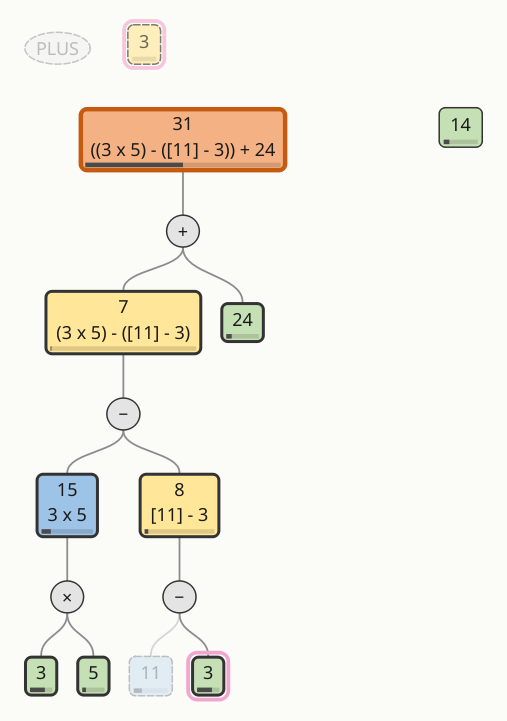
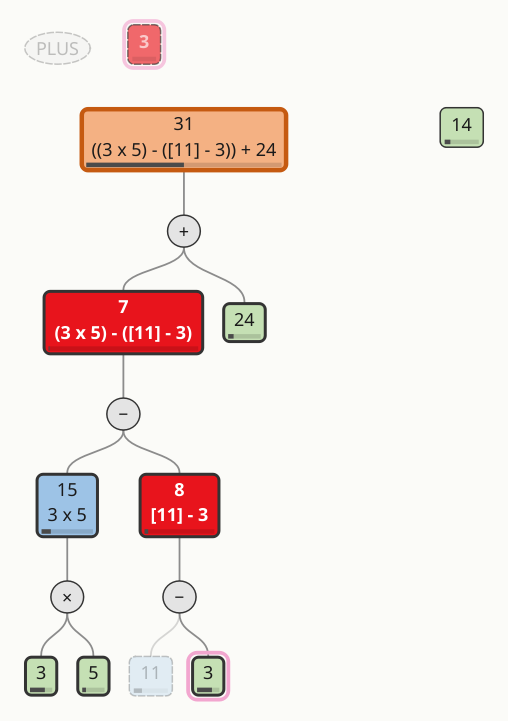
Numbo: a README in every folder; derived targets in bright red
- READMEs for docs/, lisp/tests/, lisp/tests/oracle/ (and lib/),
  python/docs/, fixtures/, scripts/, numbo/, numbo/models/, numbo/gui/,
  tests/ and tests/gui/, each saying what the folder holds and how to use it.
- python/README.md: the two screenshots in a Screenshots section up front.
- GUI: derived targets (what Numbo still needs to build) are drawn bright
  red with bold white labels; screenshots regenerated.

All 17 test groups pass (4,915 Python tests).

diff --git a/Software/Numbo/python/numbo/gui/tree_view.py b/Software/Numbo/python/numbo/gui/tree_view.py
@@ -57,7 +57,7 @@ MAX_FIT_SCALE = 1.5
 ZOOM_STEP = 1.25
 MARGIN = 16                # around the layout, in scene units
 
-TYPE_COLORS = {"1t": "#f4b183", "3dt": "#ffe699", "4bl": "#9dc3e6", "2b": "#c5e0b4",
+TYPE_COLORS = {"1t": "#f4b183", "3dt": "#e8141c", "4bl": "#9dc3e6", "2b": "#c5e0b4",
                OP_TYPE: "#e4e4e4"}
 TYPE_NAMES = {"1t": "target", "3dt": "derived target", "4bl": "block", "2b": "brick",
               OP_TYPE: "operation"}
@@ -65,6 +65,10 @@ OTHER_COLOR = "#ffffff"
 BORDER = "#333333"
 CURRENT_BORDER = "#c55a11"
 TEXT = "#1a1a1a"
+# Derived targets (what Numbo still needs to build) stand out: bright red,
+# with bold white text.
+BOLD_TYPES = {"3dt"}
+TYPE_TEXT = {"3dt": "#ffffff"}
 BAR = "#4a4a4a"
 BAR_TRACK = "#22000000"    # #AARRGGBB: a faint track under the bar
 EDGE = "#8c8c8c"
@@ -79,10 +83,11 @@ HALO = 4                   # room outside the box for the halo
 
 
 class Label(NamedTuple):
-    """A node's text, and whether it is an operation's (drawn round, with
-    no activation bar)."""
+    """A node's text, whether it is an operation's (drawn round, with no
+    activation bar), and whether it is drawn bold (which makes it wider)."""
     text: str
     op: bool
+    bold: bool = False
 
 
 def view_label(node):
@@ -94,7 +99,7 @@ def view_label(node):
     text = node_label(node)
     if node.children and node.expression:
         text += "\n" + node.expression
-    return Label(text, False)
+    return Label(text, False, node.type in BOLD_TYPES)
 
 
 @dataclasses.dataclass(frozen=True)
@@ -108,6 +113,8 @@ class Style:
     opacity: float
     bar: object
     highlight: object = None
+    text: str = TEXT
+    bold: bool = False
 
 
 def node_style(node, ghost_age, highlight):
@@ -130,16 +137,18 @@ def node_style(node, ghost_age, highlight):
         bar = 0 if not isinstance(a, (int, float)) else min(1, max(0, a / MAX_ACTIVATION))
     return Style(fill=TYPE_COLORS.get(node.type, OTHER_COLOR), border=border,
                  border_width=width, dashed=dashed, opacity=opacity, bar=bar,
-                 highlight=highlight)
+                 highlight=highlight, text=TYPE_TEXT.get(node.type, TEXT),
+                 bold=node.type in BOLD_TYPES)
 
 
 class NodeItem(QGraphicsItem):
     """A node's box at its layout position: RECT is (0, 0, width, height)."""
 
-    def __init__(self, name, font):
+    def __init__(self, name, font, bold_font=None):
         super().__init__()
         self.name = name
         self.font = font
+        self.bold_font = bold_font or font
         self.node = None
         self.label = None
         self.style = None
@@ -202,8 +211,8 @@ class NodeItem(QGraphicsItem):
                 painter.setBrush(QColor(BAR))
                 painter.drawRect(QRectF(track.x(), track.y(), track.width() * s.bar,
                                         BAR_HEIGHT))
-        painter.setFont(self.font)
-        painter.setPen(QColor(TEXT))
+        painter.setFont(self.bold_font if s.bold else self.font)
+        painter.setPen(QColor(s.text))
         painter.drawText(text_rect, Qt.AlignmentFlag.AlignCenter, self.label)
 
 
@@ -249,6 +258,9 @@ class TreeView(QGraphicsView):
         self.node_font = QFont(self.font())
         self.node_font.setPointSizeF(9)
         self._metrics = QFontMetricsF(self.node_font)
+        self.bold_font = QFont(self.node_font)
+        self.bold_font.setBold(True)
+        self._bold_metrics = QFontMetricsF(self.bold_font)
         self.model = TreeModel()
         self.layouter = self.make_layouter()
         self.layout = None
@@ -265,8 +277,9 @@ class TreeView(QGraphicsView):
 
     def measure(self, label):
         lines = label.text.split("\n")
-        w = max(self._metrics.horizontalAdvance(line) for line in lines) + 2 * PAD_X
-        h = self._metrics.height() * len(lines) + 2 * PAD_Y
+        metrics = self._bold_metrics if label.bold else self._metrics
+        w = max(metrics.horizontalAdvance(line) for line in lines) + 2 * PAD_X
+        h = metrics.height() * len(lines) + 2 * PAD_Y
         if label.op:
             return (max(w, h), h)
         return (w, h + BAR_HEIGHT + 2)
@@ -346,7 +359,7 @@ class TreeView(QGraphicsView):
             node = nodes[name]
             item = self.node_items.get(name)
             if item is None:
-                item = self.node_items[name] = NodeItem(name, self.node_font)
+                item = self.node_items[name] = NodeItem(name, self.node_font, self.bold_font)
                 scene.addItem(item)
             highlight = self.highlight(name)
             if highlight:

diff --git a/Software/Numbo/python/tests/test_readme.py b/Software/Numbo/python/tests/test_readme.py
@@ -109,8 +109,8 @@ def test_the_gui_section_runs_the_smoke_command_and_the_cli():
 
 
 def test_the_screenshots_are_committed_small_pngs():
-    images = re.findall(r"!\[[^\]]+\]\(([^)]+)\)", section("The GUI"))
-    assert 1 <= len(images) <= 2, images
+    images = re.findall(r"!\[[^\]]+\]\(([^)]+)\)", section("Screenshots"))
+    assert len(images) == 2, images
     for image in images:
         path = (PYTHON_DIR / image).resolve()
         assert path.parent == PYTHON_DIR / "docs", image

diff --git a/Software/Numbo/python/tests/test_fixtures_current.py b/Software/Numbo/python/tests/test_fixtures_current.py
@@ -7,7 +7,8 @@ from conftest import FIXTURES_DIR, regenerate_fixtures, requires_sbcl
 
 
 def _files(d):
-    return sorted(p.name for p in d.iterdir() if p.is_file())
+    # python/fixtures/README.md documents the fixtures; it is not one of them.
+    return sorted(p.name for p in d.iterdir() if p.is_file() and p.name != "README.md")
 
 
 @requires_sbcl

diff --git a/Software/Numbo/python/README.md b/Software/Numbo/python/README.md
@@ -16,6 +16,22 @@ Lisp function, with the same names (`look-for-new-block` is
 Each place that reproduces a 1987 quirk has a `# 1987:` comment citing
 `lisp/src/PORTING_NOTES.md`.
 
+## Screenshots
+
+The GUI (`python3 -m numbo.gui`) after puzzle 1 with seed 1 is solved,
+114 = (6 × 20) − (7 − 1). The center shows the tree canvas. Controls and stats
+are on the left, the coderack on the right, and the Pnet, event log and
+timeline along the bottom:
+
+![The window after puzzle 1 with seed 1](docs/gui-window.png)
+
+The canvas at the end of puzzle 3 with seed 8, the `kill-block` gap run. Its
+"Done :" goes through the block 11, which was killed earlier (dashed, faded,
+under `8 = [11] - 3`), so the window's banner and the check say the solution
+is invalid:
+
+![The canvas at the end of puzzle 3 with seed 8](docs/gui-gap-run.png)
+
 ## Requirements
 
 - **Python 3.12** (`python3`). The engine and the CLI use only the standard
@@ -136,9 +152,8 @@ stream. `observers` get the run's typed events (see
 
 `python3 -m numbo.gui` (or `numbo-gui` once installed) opens a window where
 you pick a puzzle and a seed, press Play, and watch the cytoplasm's
-arithmetic trees being built, killed and rebuilt, one event at a time:
-
-![The window after puzzle 1 with seed 1](docs/gui-window.png)
+arithmetic trees being built, killed and rebuilt, one event at a time
+(see [Screenshots](#screenshots)):
 
 - **The canvas** (center) draws the cytoplasm as trees: the target with
   its derived targets, the blocks, and the free bricks. Each node shows its
@@ -170,13 +185,6 @@ a second for the whole window). Keys (the Run menu): Space play/pause,
 → step, Shift+→ step an iteration, Esc stop, ← one event back. The window's
 size, docks, inputs and speed are remembered between sessions (QSettings
 `numbo`/`numbo-gui`).
-
-The canvas at the end of puzzle 3 with seed 8, the `kill-block` gap run. Its
-"Done :" goes through the block 11, which was killed earlier (dashed, faded,
-under `8 = [11] - 3`), so the window's banner and the check say the solution
-is invalid:
-
-![The canvas at the end of puzzle 3 with seed 8](docs/gui-gap-run.png)
 
 Options: `--puzzle N` (1–11) or `--custom "T B B B B B"`, `--seed S`,
 `--max-iterations N`, `--play` to start at once. `--smoke` runs the puzzle

diff --git a/Software/Numbo/python/numbo/README.md b/Software/Numbo/python/numbo/README.md
@@ -1,0 +1,34 @@
+# python/numbo
+
+The Python package. The engine follows the 1987 Lisp file by file and
+function by function, with the same names. Each docstring names its Lisp
+origin, and each reproduced 1987 quirk has a `# 1987:` comment.
+
+**Engine** (translations of `lisp/src/`; standard library only):
+
+| Module | Lisp origin | What it is |
+|---|---|---|
+| `start.py` | `start.lisp` | `config`: the set-up phase and the main loop. |
+| `init.py` | `init.lisp` | Parameters, `init-chiffre`, `reactivate-cyto`, `refresh-everything`. |
+| `codelets.py` | `codelets.lisp` | All 53 codelets and helpers. |
+| `cyto_def.py` | `cyto-def.lisp` | The cytoplasm (working memory): four flavors, their methods, `init-cytoplasm`. |
+| `pnet_def.py` | `pnet-def.lisp` | The Pnet (long-term memory) as data; its tables are generated by `scripts/gen_pnet_def.py`. |
+| `pnet_functions.py` | `pnet-functions.lisp` | Pnode methods, spreading activation, posting codelets. |
+| `coderack.py` | `coderack.lisp` | The coderack (reconstructed in the Lisp port). |
+| `franz.py`, `flavors.py` | `franz-compat.lisp`, `flavors-compat.lisp` | Franz Lisp built-ins with the oracle's semantics; `send`. |
+| `world.py` | `globals.lisp` | The 1987 global environment as a `World` object. |
+| `rng.py` | `oracle.lisp` | The shared splitmix64 RNG. |
+| `harness.py` | `harness.lisp` | `run_config(problem, seed, max_iterations, ...)`. |
+| `solution_checker.py` | `solution-checker.lisp` | Checks the solution printed after "Done :". |
+| `__main__.py` | — | The CLI: `python3 -m numbo TARGET B1..B5 [--seed N]`. |
+
+**Observation** (new; not 1987 source):
+
+| Module | What it is |
+|---|---|
+| `observe.py` | The `Subject`, the `Observer` protocol and the typed events of a run. |
+| `events.py` | The hooks that publish the engine's events. |
+| `trace.py` | The oracle's JSON-lines trace, written by an observer. |
+| `session.py` | Session recording and replay; replaying an SBCL trace with verification. |
+| [`models/`](models/) | Qt-free models kept from the events (tree, layout, Pnet, coderack, log, run controller). |
+| [`gui/`](gui/) | The PySide6 GUI. |

diff --git a/Software/Numbo/lisp/tests/README.md b/Software/Numbo/lisp/tests/README.md
@@ -1,0 +1,30 @@
+# lisp/tests
+
+The SBCL port's tests. Run them all from anywhere:
+
+```sh
+bash lisp/tests/run-tests.sh      # or ./run-tests.sh in Software/Numbo/, which also runs the Python tests
+```
+
+Each `.lisp` file runs on its own, from `lisp/`, and exits 0 if every check passes:
+`sbcl --non-interactive --load tests/FILE.lisp`.
+
+| File | What it checks |
+|---|---|
+| `run-tests.sh` | Runs everything below, in order. Graphics are kept off (`WINDOW_GFX` unset). |
+| `read-pass.lisp` | Every ported source file READs cleanly, and has no non-ASCII OCR debris. |
+| `franz-compat-tests.lisp` | The Franz Lisp built-ins (`src/franz-compat.lisp`). |
+| `flavors-compat-tests.lisp` | Flavors on CLOS (`src/flavors-compat.lisp`), and the real flavor files loading. |
+| `coderack-tests.lisp` | The reconstructed coderack (`src/coderack.lisp`), including its weighted choice, checked statistically. |
+| `graphics-tests.lisp` | The graphics stubs (`src/graphics-stubs.lisp`). |
+| `pnet-compile-tests.lisp` | The Pnet files compile cleanly; `initialize-pnet` works. |
+| `cyto-codelets-compile-tests.lisp` | The cytoplasm and codelets compile, with no undefined functions in the whole system. |
+| `compile-helpers.lisp` | Shared by the two compile tests. |
+| `boot-tests.lisp` | First boot: `(config 31 3 5 24 3 14)` runs 500 iterations headless. |
+| `solution-tests.lisp` | A run to completion (seed 18), checked by `src/solution-checker.lisp`. |
+| `validation-tests.lisp`, `trace-tools.lisp` | The port against the 1987 trace `trace3.31` and the chapter's puzzles. |
+| `chapter-runs.lisp` | Not a test: regenerates the tables of `src/RESULTS.md`. |
+| `readme-test.sh` | Every `sh` block of `src/README.md` runs as written. |
+| `oracle-mode-tests.sh` | Oracle mode is opt-in: a default load is unchanged. |
+| `oracle-tests.lisp` | The oracle hooks (`src/oracle.lisp`): shared RNG, double floats, copying `sortcar`, JSON-lines trace. |
+| [`oracle/`](oracle/) | Not tests: the scripts that capture the Python implementation's fixtures. |

diff --git a/Software/Numbo/lisp/tests/oracle/README.md b/Software/Numbo/lisp/tests/oracle/README.md
@@ -1,0 +1,31 @@
+# lisp/tests/oracle
+
+Fixture capture scripts. Each one loads the SBCL port in **oracle mode** and writes
+a JSON fixture into `../python/fixtures/`, which the Python tests replay. So
+every expected value in the Python tests comes from the Lisp.
+
+Regenerate them all (they take a few seconds):
+
+```sh
+python/scripts/regen_fixtures.sh          # from Software/Numbo/
+```
+
+The script runs every `*.lisp` here except `common.lisp`, in name order.
+`python/tests/test_fixtures_current.py` checks that the committed fixtures
+are up to date and that regeneration is deterministic.
+
+| Script | Writes | What it captures |
+|---|---|---|
+| `common.lisp` | — | Shared prologue: loads the port in oracle mode; `write-fixture`. |
+| `rng-vectors.lisp` | `rng_vectors.json` | The shared splitmix64 RNG's outputs and `(random n)` draws. |
+| `franz-cases.lisp` | `franz_cases.json` | The Franz built-ins on 1,090 cases (division, `*mod`, print names, ...). |
+| `pnet.lisp` | `pnet.json` | The 88 pnodes and the 91 holder variables, every slot; the parameters. |
+| `pnet-functions.lisp` | `pnet_functions.json` | Pnet states before and after spreading activation, and every pnode method. |
+| `coderack.lisp` | `coderack.json` | Scripted coderack operations, and every coderack call of 3 real runs. |
+| `cyto-def.lisp` | `cyto_def.json` | Cytoplasm states, and every cytoplasm and cyto-node method on them. |
+| `codelets-a.lisp` | `codelets_a.json` | Node creation, linking, activation: whole-world states before and after each call. |
+| `codelets-b.lisp` | `codelets_b.json` | Block search codelets and their helpers. |
+| `codelets-c.lisp` | `codelets_c.json` | Decomposition, targets, temperature, including the kill-block-gap run. |
+| `main-loop.lisp` | `main_loop.json` | 7 full runs, each in a fresh SBCL process: outcome, printed text, trace. |
+| `solution-checker.lisp` | `solution_checker.json` | `check-solution` on 126 texts. |
+| [`lib/`](lib/) | — | Helpers loaded by the scripts and tests, not capture scripts. |

diff --git a/Software/Numbo/python/numbo/gui/README.md b/Software/Numbo/python/numbo/gui/README.md
@@ -1,0 +1,19 @@
+# python/numbo/gui
+
+The PySide6 GUI: `python3 -m numbo.gui` (or `numbo-gui`). Each view is an
+observer drawing one of the Qt-free models in [`../models/`](../models/), and
+the run waits after every event until every view has redrawn.
+
+| Module | What it is |
+|---|---|
+| `app.py`, `__main__.py` | The entry point and its arguments (`--puzzle`, `--seed`, `--play`, `--smoke`). |
+| `main_window.py` | The main window: dockable panes over a run controller. Events cross from the worker thread through queued signals. Session > Open / Save, the Run menu and its shortcuts, remembered settings. |
+| `paint.py` | The every-event redraw, with one window paint per event. |
+| `tree_view.py` | The AST canvas: the cytoplasm's trees, styled by type, status, activation and the latest change; zoom, pan, fit. |
+| `pnet_view.py` | The Pnet: 88 nodes shaded by activation, with the nodes that have cytoplasm instances marked. |
+| `coderack_view.py` | The urgency bins, their counts and the codelets waiting. |
+| `log_view.py` | The event log: one row per event, filterable by kind. |
+| `timeline.py` | The slider over the run's events, back and forward, go to an iteration. |
+| `controls.py` | Puzzle, seed and cap; play, pause, step, stop; speed. |
+| `stats_view.py` | Iteration, temperature, codelets waiting, outcome and the solution check. |
+| `render.py` | A scene rendered to a PNG, used by the tests and the screenshots. |

diff --git a/Software/Numbo/python/tests/README.md b/Software/Numbo/python/tests/README.md
@@ -1,0 +1,32 @@
+# python/tests
+
+The Python tests (pytest). Every expected value about the engine comes from
+the SBCL port: either from a fixture (`../fixtures/`, written by
+`lisp/tests/oracle/`), or from running SBCL side by side.
+
+```sh
+python3 -m pytest python/tests -q          # from Software/Numbo/; needs sbcl for the oracle tests
+```
+
+Qt draws offscreen (`conftest.py` sets `QT_QPA_PLATFORM`). Tests that need
+SBCL or PySide6 are skipped when those are missing.
+
+**The engine against the oracle**: `test_rng`, `test_franz`,
+`test_franz_census`, `test_pnet_def`, `test_pnet_functions`, `test_coderack`,
+`test_cyto_def`, `test_codelets_a`/`_b`/`_c`, `test_main_loop`,
+`test_solution_checker`, `test_cli`, and **`test_full_runs`**: 220 full runs
+(11 chapter puzzles × 20 seeds), Python versus SBCL, compared event by event.
+
+**Observation and models**: `test_observe`, `test_session`,
+`test_tree_model`, `test_tree_layout`, `test_pnet_coderack_models`,
+`test_event_log`, `test_run_controller`, `test_run_stats`.
+
+**The GUI**: [`gui/`](gui/).
+
+**Housekeeping**: `test_fixtures_current` (fixtures match a fresh
+regeneration), `test_readme` (the README's commands run as written),
+`test_packaging`, `test_skeleton`.
+
+**Helpers**: `conftest.py`, `full_runs.py` (the differential runner, also a
+script), `codelet_cases.py`, `cyto_state.py` and `world_state.py` (the
+fixtures' state encodings).

diff --git a/Software/Numbo/python/numbo/models/README.md b/Software/Numbo/python/numbo/models/README.md
@@ -1,0 +1,16 @@
+# python/numbo/models
+
+Qt-free models of a run, each kept up to date from the run's events (each one
+is an observer). The GUI's views draw them, and they are tested without Qt
+(`python/tests/test_*.py`).
+
+| Module | What it models |
+|---|---|
+| `tree_model.py` | The cytoplasm as a forest of arithmetic trees: targets and derived targets, blocks, free bricks, killed "ghost" nodes; expressions in the solution checker's notation. Checked against the live World after every event. |
+| `tree_layout.py` | A deterministic tidy-tree (Reingold–Tilford) layout of that forest that stays stable from event to event. |
+| `layout_history.py` | The tree layout at any event of a run (snapshots every 64 events), for scrubbing. |
+| `pnet_model.py` | The Pnet's 88 nodes, links and current activations, on a fixed grid. |
+| `coderack_model.py` | The codelets waiting in each urgency bin, and the codelet just chosen. |
+| `event_log.py` | The run's history: every event, counts by kind, where each iteration starts; one line of text per event. |
+| `run_stats.py` | The run's inputs (the chapter's puzzles, parsing) and the stats panel's model. |
+| `run_controller.py` | Runs Numbo, a session or an SBCL trace on a worker thread behind a per-event gate: each event waits until it is drawn. Play, pause, step, stop. |

diff --git a/Software/Numbo/python/scripts/README.md b/Software/Numbo/python/scripts/README.md
@@ -1,0 +1,10 @@
+# python/scripts
+
+Development scripts (not part of the package).
+
+| Script | What it does |
+|---|---|
+| `regen_fixtures.sh [OUT_DIR]` | Regenerates `python/fixtures/` from the SBCL oracle by running every `lisp/tests/oracle/*.lisp`. |
+| `gen_pnet_def.py [--check]` | Regenerates the Pnet tables in `numbo/pnet_def.py` from `lisp/src/pnet-def.lisp`. With `--check`, it only reports whether they are current; a test runs this. |
+| `chapter_runs.py [--write \| --check]` | Runs the chapter's 11 puzzles × seeds 1–20 in Python and writes, or checks, `python/RESULTS.md`. |
+| `docs_screenshots.py` | Regenerates the README's screenshots in `python/docs/`, offscreen. |

diff --git a/Software/Numbo/python/tests/gui/README.md b/Software/Numbo/python/tests/gui/README.md
@@ -1,0 +1,11 @@
+# python/tests/gui
+
+pytest-qt tests of the GUI, offscreen. They are skipped if PySide6 is missing.
+
+| File | What it checks |
+|---|---|
+| `test_gui_shell.py` | The main window, controls and stats: play, pause, step, stop, closing mid-run, bad input. |
+| `test_tree_view.py` | The tree canvas matches the model after every event; the highlights; the snapshots. |
+| `test_pnet_coderack_views.py` | The Pnet and coderack views against their models. |
+| `test_log_replay.py` | The event log, Session > Save / Open, scrubbing, and opening an SBCL trace. |
+| `test_polish.py` | Settings, shortcuts, the error banner, memory, and what's painted after every event. |
